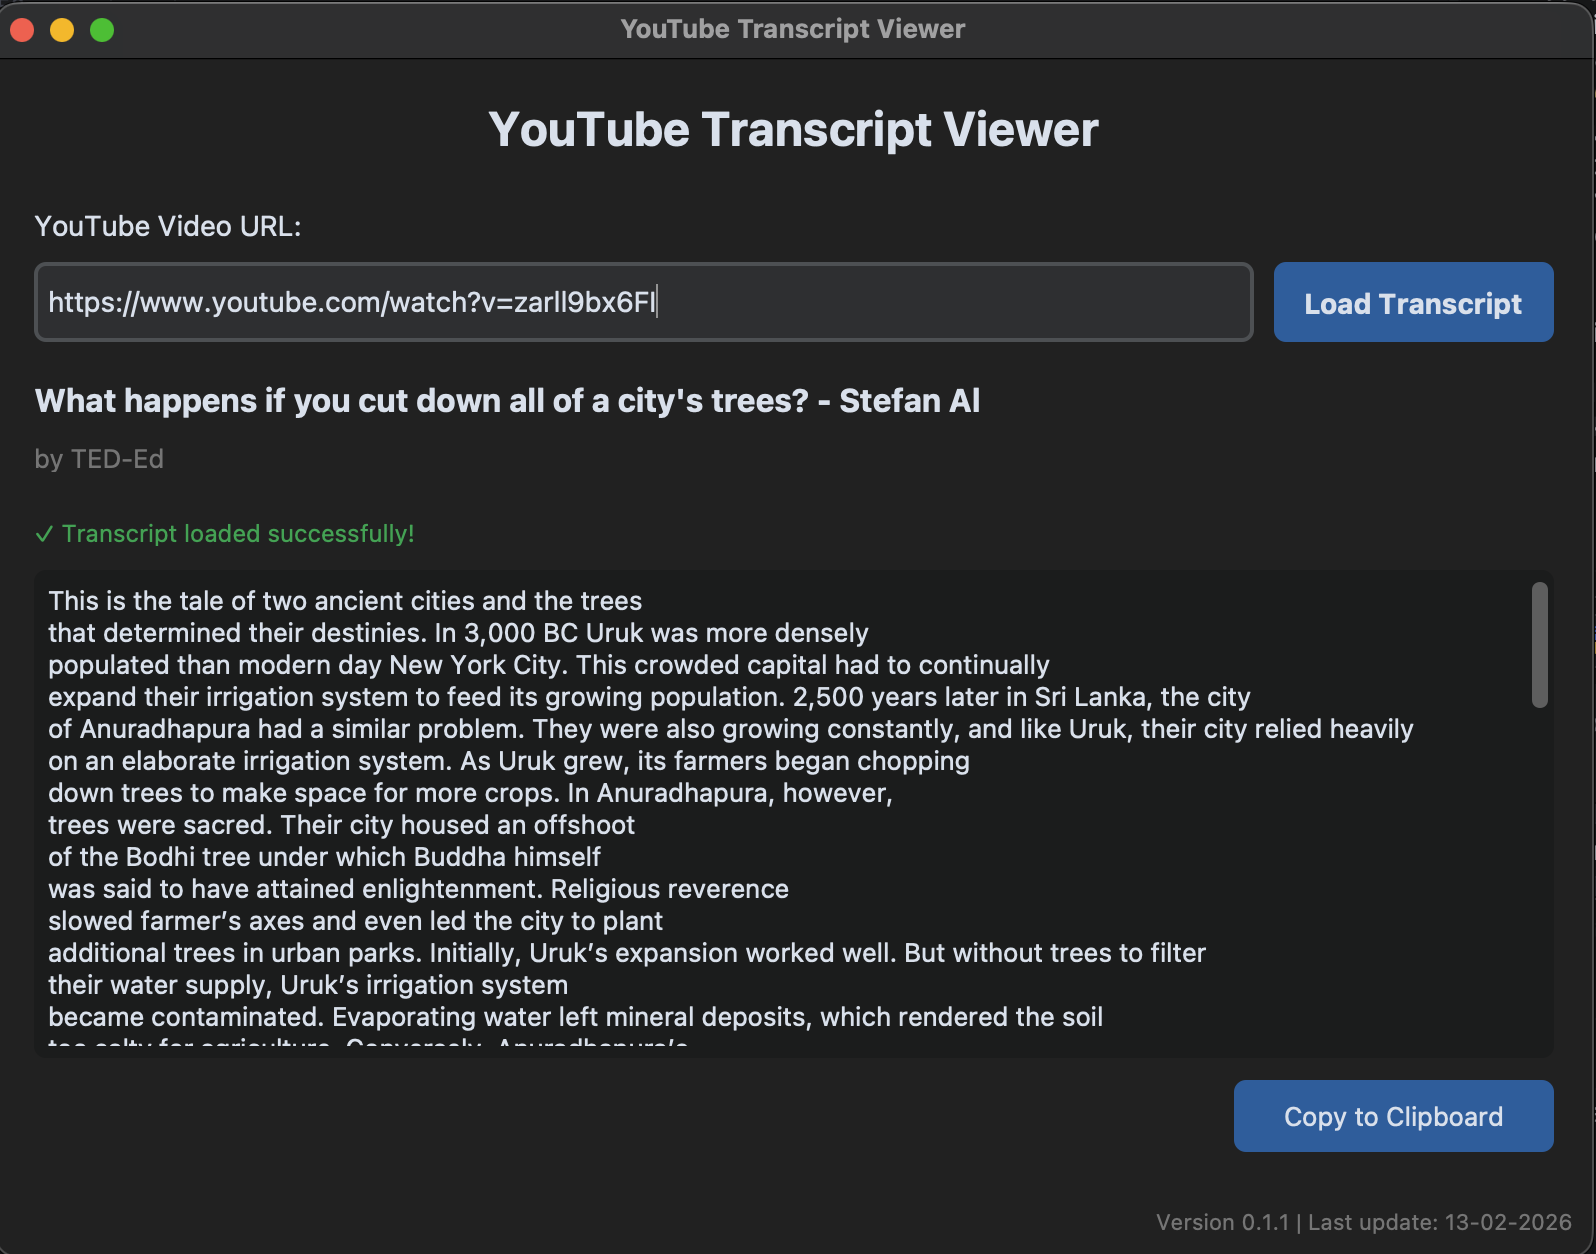
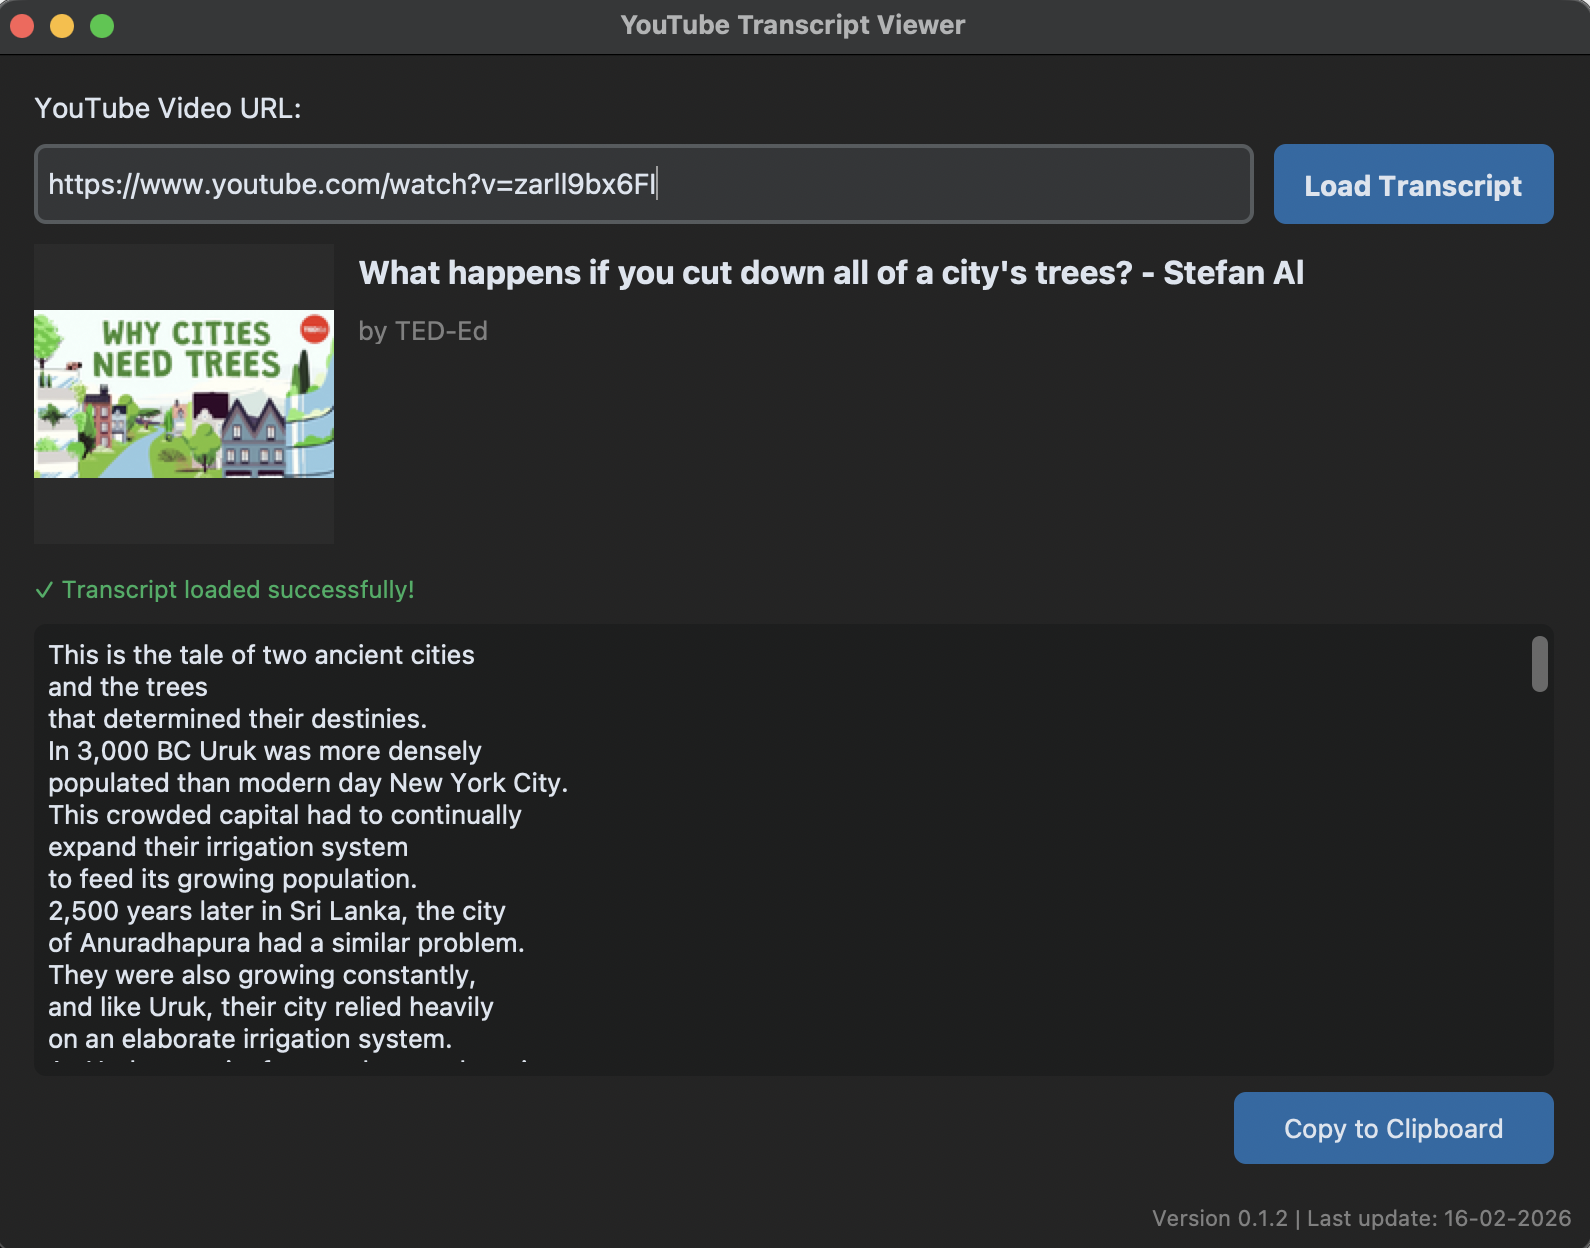
Show author and project link in status bar
Add AUTHOR_NAME and PROJECT_LINK constants and import webbrowser. Update the main UI to display the author and a clickable project URL in the status bar, including a _open_project_link handler with error handling. Also update the UI screenshot asset (assets/screen_1.png) to reflect the change.

Changed region(s): [[0.0, 0.0, 1.0, 1.0], [0.0308, 0.4688, 0.8937, 0.8438], [0.0, 0.0, 0.9553, 0.0312]]

diff --git a/main.py b/main.py
@@ -8,10 +8,11 @@ import re
 import threading
 import urllib.request
 import urllib.error
+import webbrowser
 import customtkinter as ctk
 from youtube_transcript_api import YouTubeTranscriptApi
 
-from constants import APP_VERSION, APP_UPDATE
+from constants import APP_VERSION, APP_UPDATE, AUTHOR_NAME, PROJECT_LINK
 from components.video_thumbnail_frame import (
     THUMBNAIL_MAX_HEIGHT,
     THUMBNAIL_MAX_WIDTH,
@@ -163,6 +164,27 @@ class YouTubeTranscriptApp(ctk.CTk):
         self.status_bar = ctk.CTkFrame(self, height=25, fg_color="transparent")
         self.status_bar.pack(fill="x", side="bottom", padx=10, pady=(0, 5))
 
+        self.project_info_frame = ctk.CTkFrame(self.status_bar, fg_color="transparent")
+        self.project_info_frame.pack(side="left")
+
+        self.author_label = ctk.CTkLabel(
+            self.project_info_frame,
+            text=f"{AUTHOR_NAME} - ",
+            font=ctk.CTkFont(size=11),
+            text_color="gray"
+        )
+        self.author_label.pack(side="left")
+
+        self.project_link_label = ctk.CTkLabel(
+            self.project_info_frame,
+            text=PROJECT_LINK,
+            font=ctk.CTkFont(size=11),
+            text_color="#3b82f6",
+            cursor="hand2"
+        )
+        self.project_link_label.pack(side="left")
+        self.project_link_label.bind("<Button-1>", lambda _event: self._open_project_link())
+
         self.version_label = ctk.CTkLabel(
             self.status_bar,
             text=f"Version {APP_VERSION} | Last update: {APP_UPDATE}",
@@ -214,6 +236,13 @@ class YouTubeTranscriptApp(ctk.CTk):
         state = "normal" if enabled else "disabled"
         self.url_entry.configure(state=state)
         self.load_button.configure(state=state)
+
+    def _open_project_link(self):
+        """Open the project repository in the default browser."""
+        try:
+            webbrowser.open_new_tab(PROJECT_LINK)
+        except Exception:
+            self._update_status("Unable to open project link.", is_error=True)
 
     def _on_video_info_resized(self, _event=None):
         """Keep title wrapping reasonable next to fixed thumbnail size."""

diff --git a/constants.py b/constants.py
@@ -1,4 +1,5 @@
 # to update the version, please run the release.py script
 APP_VERSION = "0.1.2"
 APP_UPDATE = "16-02-2026"
-
+AUTHOR_NAME = "Matteo Boschi"
+PROJECT_LINK = "https://github.com/Undermaken/youtube-transcript"
